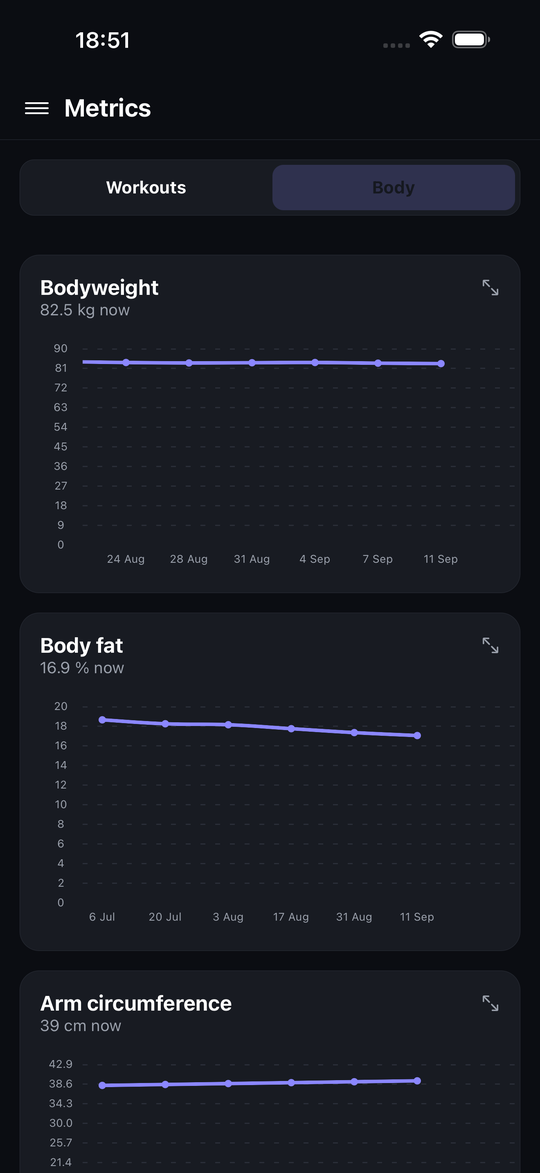
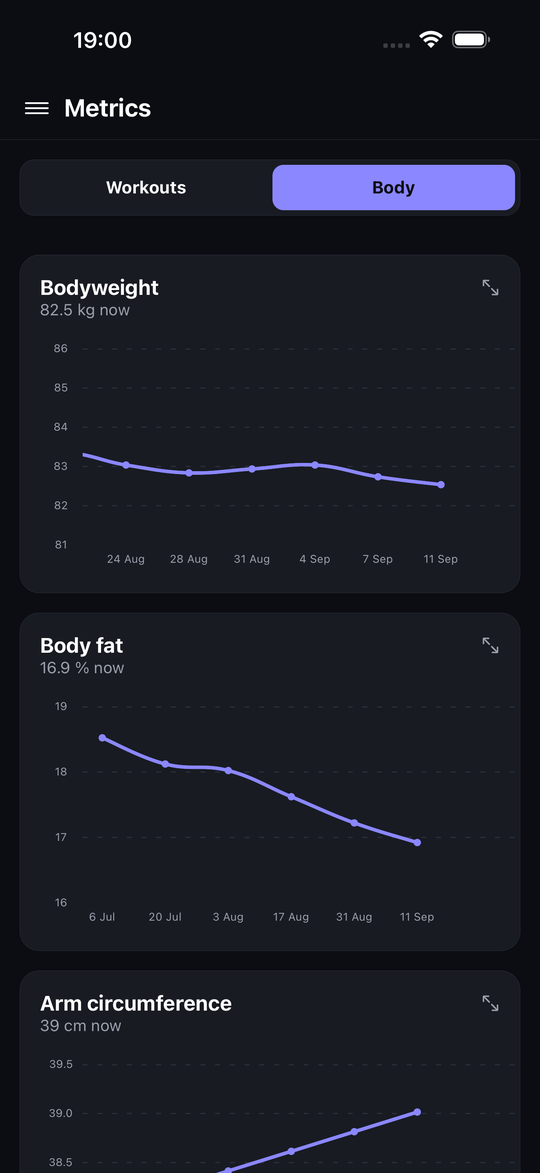
Body charts: y axis framed around the data instead of starting at 0
niceRange() picks a rounded window just below/above the series so a 2 kg
change is readable; it clamps at 0 for big jumps and uses fractional steps
for close values. Applied to the Body panels and their fullscreen view.

diff --git a/mobile/src/app/metrics.tsx b/mobile/src/app/metrics.tsx
@@ -23,8 +23,10 @@ import { MUSCLE_GROUPS, groupOf } from '@/data/catalog'
 import { getAllWorkouts, getBodyEntries } from '@/data/repo'
 import { BODY_MEASURES, type BodyEntry, type MuscleGroup, type Workout } from '@/domain/types'
 import {
+  type AxisRange,
   bodyMetricSeries,
   bodyweightSeries,
+  niceRange,
   dailyMaxWeightSeries,
   maxWeight,
   repsThisWeek,
@@ -395,7 +397,8 @@ function LinePanel({
   onExpand: () => void
 }) {
   const [tip, pickTip] = useTip()
-  const data = tipData(series, tip, unit, c)
+  const range = useMemo(() => niceRange(series.map((p) => p.value)), [series])
+  const data = tipData(series, tip, unit, c, range)
   // Fixed 7-day viewport: spread points across 7 slots, leaving room
   // (initialSpacing + endSpacing) so the last label is never truncated.
   const slots = 7
@@ -440,6 +443,10 @@ function LinePanel({
           xAxisLabelTextStyle={axisText}
           yAxisTextStyle={axisText}
           curved
+          yAxisOffset={range.min}
+          maxValue={range.max - range.min}
+          noOfSections={range.sections}
+          yAxisLabelTexts={range.labels}
           {...tipTargets(series, pickTip)}
         />
       )}
@@ -485,13 +492,12 @@ const TIP_W = 120
 // the line. It is clipped at the chart's edges, so it goes below the point for high
 // values (the usual case, the y axis starts at 0), above it for low ones, and is
 // nudged inwards on the first and last points.
-const tipData = (series: Point[], tip: number | null, unit: string, c: ReturnType<typeof useTheme>) => {
-  const max = Math.max(1, ...series.map((p) => p.value))
+const tipData = (series: Point[], tip: number | null, unit: string, c: ReturnType<typeof useTheme>, range: AxisRange) => {
   const last = series.length - 1
   return series.map((p, i) => ({
     value: p.value,
     label: p.label,
-    dataPointLabelShiftY: p.value / max < 0.35 ? -58 : 14,
+    dataPointLabelShiftY: (p.value - range.min) / (range.max - range.min) < 0.35 ? -58 : 14,
     dataPointLabelShiftX: i === 0 ? 40 : i === last ? -40 : 0,
     dataPointLabelComponent: () =>
       tip === i ? <ChartTip lines={[p.label, `${p.value} ${unit}`]} c={c} /> : null,
@@ -567,6 +573,10 @@ function ExpandedChartOverlay({
   const insets = useSafeAreaInsets()
   const { width } = useWindowDimensions()
   const [tip, pickTip] = useTip()
+  const lineRange = useMemo(
+    () => niceRange(chart?.kind === 'line' ? chart.data.map((p) => p.value) : []),
+    [chart],
+  )
 
   const chartW = width - Spacing.three * 2
   const axisText = { color: c.textSecondary, fontSize: 11 }
@@ -603,7 +613,7 @@ function ExpandedChartOverlay({
               <Empty c={c} />
             ) : (
               <LineChart
-                data={tipData(chart.data, tip, chart.unit, c)}
+                data={tipData(chart.data, tip, chart.unit, c, lineRange)}
                 width={chartW}
                 height={360}
                 spacing={lineSpacing(chart.data.length)}
@@ -620,6 +630,10 @@ function ExpandedChartOverlay({
                 xAxisLabelTextStyle={axisText}
                 yAxisTextStyle={axisText}
                 curved
+                yAxisOffset={lineRange.min}
+                maxValue={lineRange.max - lineRange.min}
+                noOfSections={lineRange.sections}
+                yAxisLabelTexts={lineRange.labels}
                 {...tipTargets(chart.data, pickTip)}
               />
             )}

diff --git a/mobile/src/domain/metrics.ts b/mobile/src/domain/metrics.ts
@@ -251,3 +251,37 @@ export function bodyMetricSeries(
       value: e[field] as number,
     }))
 }
+
+/** Y-axis window for a body-metric chart: the axis starts just below the
+ *  smallest value and ends just above the largest, on "nice" steps, so a
+ *  2 kg change is readable instead of being flattened onto a 0-based axis. */
+export interface AxisRange {
+  min: number
+  max: number
+  sections: number
+  labels: string[]
+}
+
+export function niceRange(values: number[]): AxisRange {
+  if (values.length === 0) return { min: 0, max: 4, sections: 4, labels: ['0', '1', '2', '3', '4'] }
+  const lo = Math.min(...values)
+  const hi = Math.max(...values)
+  const span = Math.max(hi - lo, 1e-9)
+  const pad = span === 1e-9 ? 1 : span * 0.25
+  const rough = (span + 2 * pad) / 5
+  const pow = 10 ** Math.floor(Math.log10(rough))
+  const step = [1, 2, 2.5, 5, 10].map((m) => m * pow).find((st) => st >= rough) ?? 10 * pow
+  let min = Math.floor((lo - pad) / step) * step
+  // body metrics are never negative: a big jump (say 10 -> 80 cm) must not
+  // push the axis below zero just to keep the padding symmetric
+  if (lo >= 0 && min < 0) min = 0
+  let max = Math.ceil((hi + pad) / step) * step
+  if (max <= min) max = min + step * 4
+  const sections = Math.round((max - min) / step)
+  const decimals = step < 1 ? 1 : 0
+  const labels = Array.from({ length: sections + 1 }, (_, i) => (min + i * step).toFixed(decimals))
+  // avoid float noise on the boundaries themselves
+  min = Number(min.toFixed(decimals))
+  max = Number(max.toFixed(decimals))
+  return { min, max, sections, labels }
+}

diff --git a/mobile/test/metrics.test.ts b/mobile/test/metrics.test.ts
@@ -175,3 +175,33 @@ describe('dailyMaxWeightSeries', () => {
     expect(dailyMaxWeightSeries([], groupOf)).toEqual([])
   })
 })
+import { niceRange } from '../src/domain/metrics'
+
+describe('niceRange', () => {
+  it('frames a narrow bodyweight series instead of starting at 0', () => {
+    const r = niceRange([84.6, 84.1, 83.3, 82.5])
+    expect(r.min).toBeLessThan(82.5)
+    expect(r.min).toBeGreaterThan(70)
+    expect(r.max).toBeGreaterThan(84.6)
+    expect(r.labels[0]).toBe(String(r.min))
+    expect(r.labels).toHaveLength(r.sections + 1)
+  })
+  it('gives a single value some room', () => {
+    const r = niceRange([80])
+    expect(r.min).toBeLessThan(80)
+    expect(r.max).toBeGreaterThan(80)
+  })
+  it('keeps a big jump readable without going below zero', () => {
+    const r = niceRange([10, 12, 80])
+    expect(r.min).toBe(0)
+    expect(r.max).toBeGreaterThanOrEqual(80)
+    expect(r.sections).toBeGreaterThanOrEqual(3)
+    expect(r.sections).toBeLessThanOrEqual(8)
+    expect(r.labels).toHaveLength(r.sections + 1)
+  })
+  it('uses fractional steps when the values are close together', () => {
+    const r = niceRange([16.9, 17.1])
+    expect(r.labels.some((l) => l.includes('.'))).toBe(true)
+    expect(r.max - r.min).toBeLessThan(2)
+  })
+})
